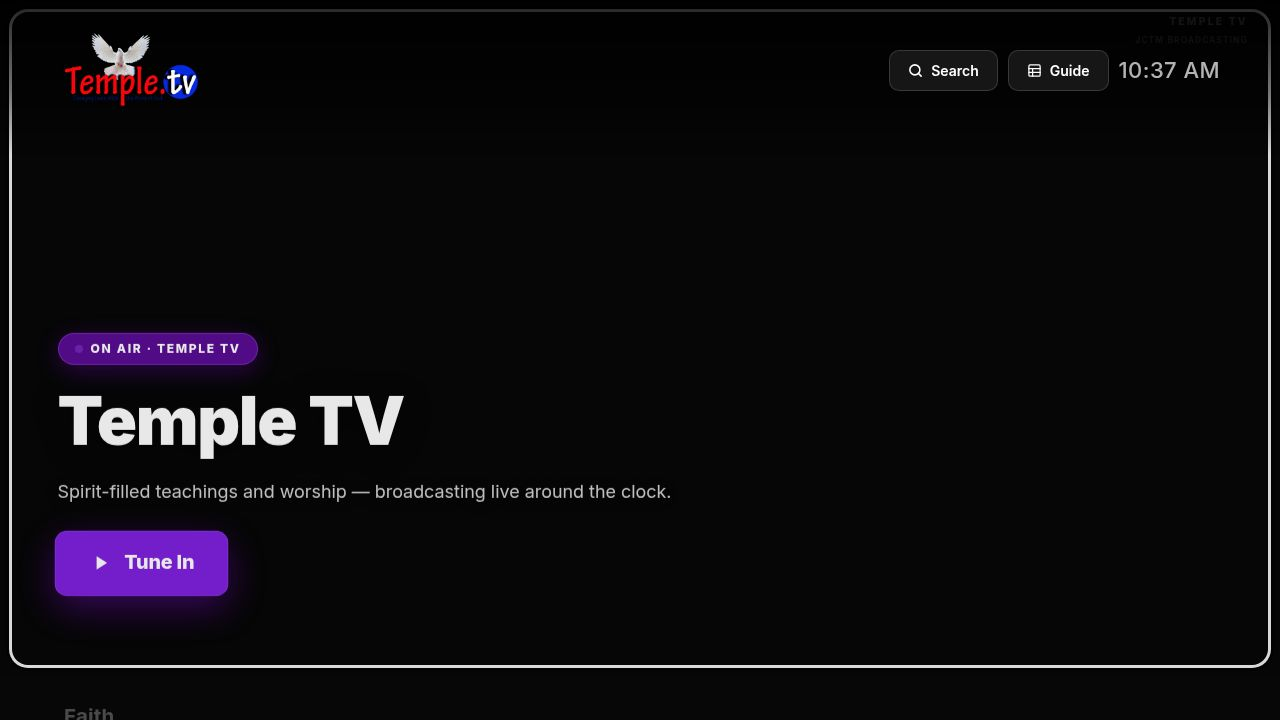
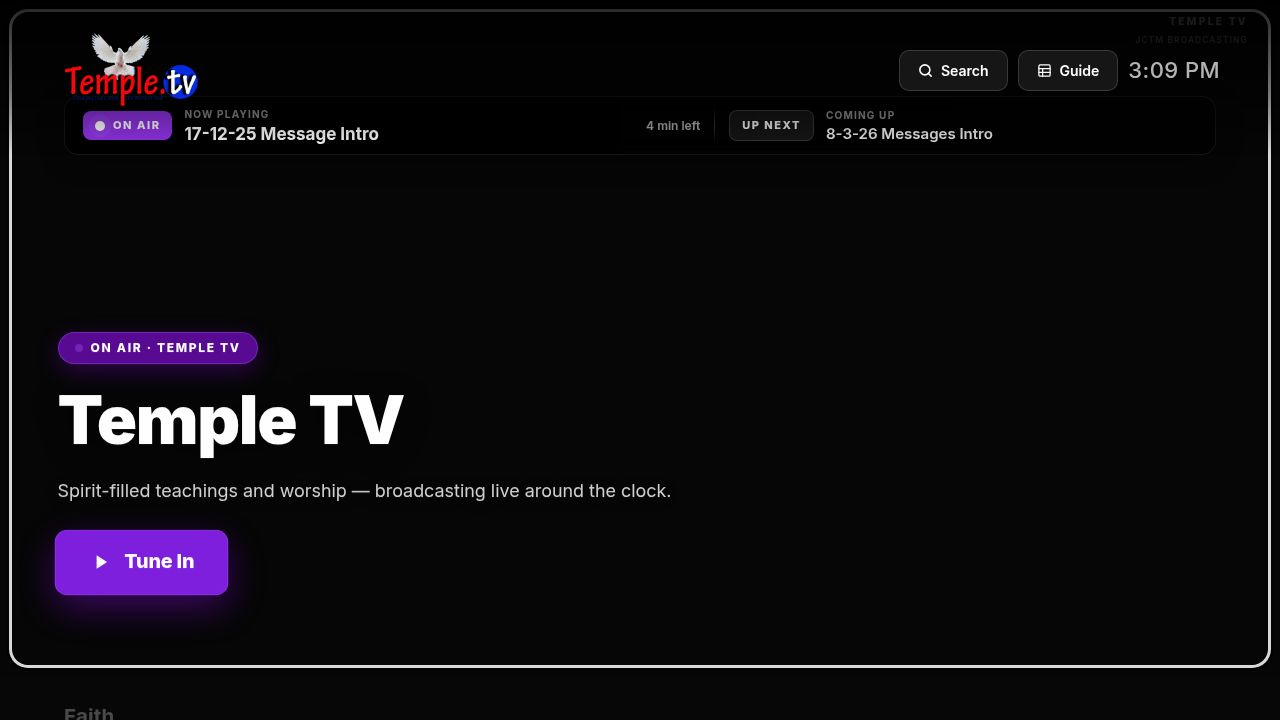
Enable WebSocket connections in development environments
Update Vite configurations to correctly proxy WebSocket traffic for both the admin and TV applications, ensuring proper development server communication with the playback engine.

Replit-Commit-Author: Agent
Replit-Commit-Session-Id: fcb82597-0261-4163-a842-7a122e4d4983
Replit-Commit-Checkpoint-Type: full_checkpoint
Replit-Commit-Event-Id: 174631f1-9fbf-47f0-b6f7-09794314aa85
Replit-Commit-Screenshot-Url: https://storage.googleapis.com/screenshot-production-us-central1/5d5fb7e8-ee14-43f0-b027-fdc6580c34a3/fcb82597-0261-4163-a842-7a122e4d4983/poiPPn4

diff --git a/artifacts/tv/vite.config.ts b/artifacts/tv/vite.config.ts
@@ -81,6 +81,12 @@ export default defineConfig({
         target: "http://localhost:8080",
         changeOrigin: true,
         secure: false,
+        // Forward WebSocket upgrades for /api/playback/ws so the TV's
+        // useLiveSync hook can connect to the playback engine through the
+        // same dev origin it uses for HTTP. Without this, the WS handshake
+        // would 404 at the dev server and useLiveSync would loop on its
+        // exponential-backoff reconnect timer.
+        ws: true,
       },
     },
     fs: {

diff --git a/artifacts/admin/vite.config.ts b/artifacts/admin/vite.config.ts
@@ -86,6 +86,10 @@ export default defineConfig({
         target: "http://localhost:8080",
         changeOrigin: true,
         secure: false,
+        // Forward WebSocket upgrades for /api/playback/ws so the admin
+        // PlaybackClient can connect to the playback engine through the
+        // same dev origin it uses for HTTP.
+        ws: true,
       },
     },
     fs: {